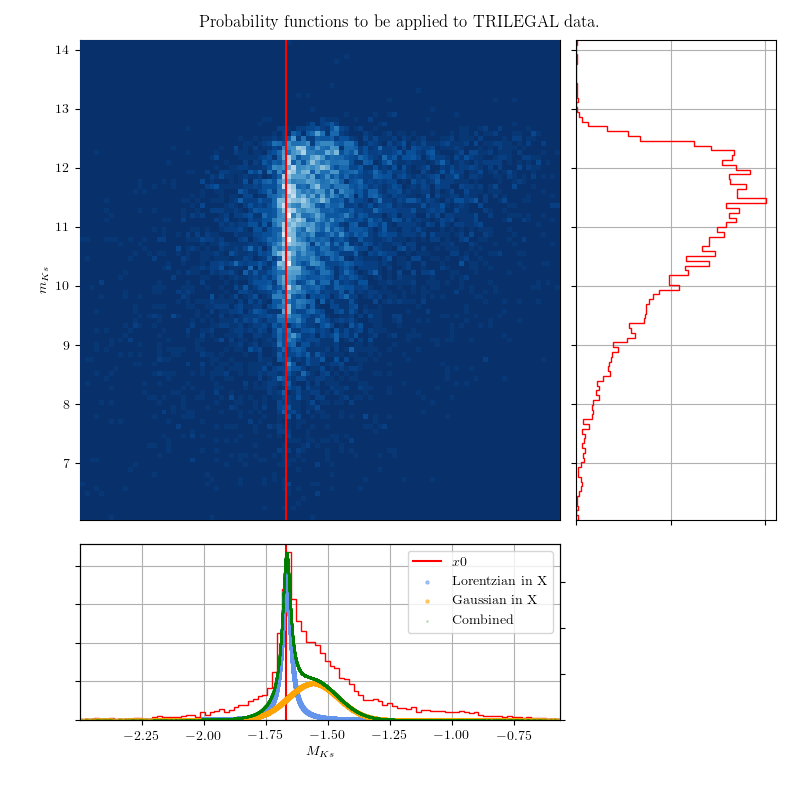
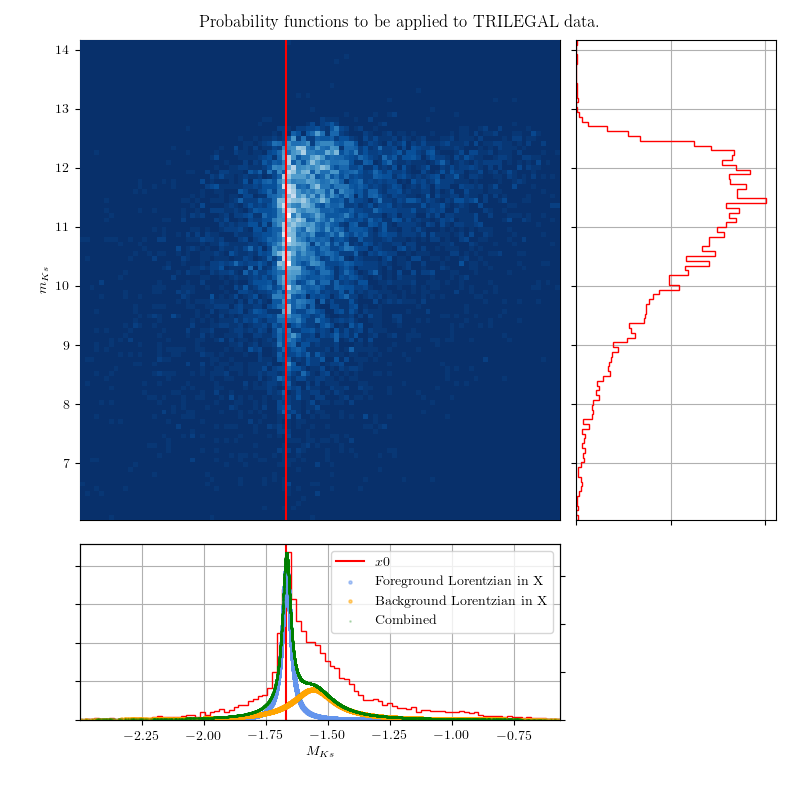
Double lorentzian fitting now appears to converge on a result with precision 88%, but a low recall.

diff --git a/2dmixmod.py b/2dmixmod.py
@@ -73,10 +73,10 @@ class cLikelihood:
 
     #Likelihood for the 'foreground'
     def lnlike_fg(self, p):
-        return self.Model.lorentzian_x(p)
+        return self.Model.lorentzian_fg(p)
 
     def lnlike_bg(self, p):
-        return self.Model.gauss_x(p)
+        return self.Model.lorentzian_bg(p)
 
     def lnprob(self, p):
         Q = p[-1]
@@ -131,8 +131,8 @@ def probability_plot(x, y, bins,x0, lor_x, gauss_x):
     yax.legend(loc='best')
 
     xax.hist(x,bins=bins,histtype='step',color='r',normed=True)
-    xax2.scatter(x,lor_x,s=5,c='cornflowerblue',alpha=.5,label='Lorentzian in X')
-    xax2.scatter(x,gauss_x,s=5,c='orange',alpha=.5,label='Gaussian in X')
+    xax2.scatter(x,lor_x,s=5,c='cornflowerblue',alpha=.5,label='Foreground Lorentzian in X')
+    xax2.scatter(x,gauss_x,s=5,c='orange',alpha=.5,label='Background Lorentzian in X')
     xax2.scatter(x,lor_x+gauss_x,s=1,c='green',alpha=.2,label='Combined')
     xax2.set_ylim(0.)
     xax.axvline(x0,c='r',label=r"$x0$")
@@ -159,8 +159,8 @@ def save_library(df, chain,labels_mc):
     results.loc[0], stddevs.loc[0] = r, s
 
     output = pd.concat([results,stddevs],axis=1)
-    output.to_csv('../Output/2dmix_results.csv')
-    df.to_csv('../Output/2dmix_selected_data.csv')
+    output.to_csv('Output/2dmix_results.csv')
+    df.to_csv('Output/2dmix_selected_data.csv')
 
     return results, stddevs
 
@@ -238,22 +238,22 @@ if __name__ == '__main__':
 
 ####---SETTING UP MCMC
     labels_mc = ["$x0$", r"$\gamma$",\
-                r"$\mu$", r"$\sigma$",\
+                "$x1$", r"$\mu$",\
                 "$Q$"]
     start_params = np.array([x0guess, 0.02,\
                             -1.56, 0.1,\
                             0.5])
-    bounds = [(-1.7,-1.6), (0.01,0.1),\
-                (-1.6,-1.5), (0.05, 0.15),\
+    bounds = [(-1.7,-1.6), (0.01,0.8),\
+                (-1.6,-1.5), (0.08, 0.2),\
                 (0, 1)]
 
 ####---CHECKING MODELS BEFORE RUN
     #Getting other probability functions
     ModeLLs = cLLModels.LLModels(x, y, labels_mc)
-    lor_x = np.exp(ModeLLs.lorentzian_x(start_params))
-    gauss_x = np.exp(ModeLLs.gauss_x(start_params))
+    lor_fg = np.exp(ModeLLs.lorentzian_fg(start_params))
+    lor_bg = np.exp(ModeLLs.lorentzian_bg(start_params))
 
-    fig = probability_plot(x, y, bins, x0guess, lor_x, gauss_x)
+    fig = probability_plot(x, y, bins, x0guess, lor_fg, lor_bg)
     fig.savefig('Output/visual_models.png')
     plt.show()
     plt.close('all')
@@ -261,6 +261,9 @@ if __name__ == '__main__':
 ####---RUNNING MCMC
     lnprior = cPrior.Prior(bounds)
     Like = cLikelihood(lnprior, ModeLLs)
+    if np.isinf(lnprior(start_params)):
+        print('Starting guesses out of bounds.')
+        sys.exit()
 
     ntemps, nwalkers = 4, 32
 
@@ -273,12 +276,7 @@ if __name__ == '__main__':
     plt.show()
     plt.close()
 
-    lnK, fg_pp = Fit.log_bayes()
-    mask = lnK > 1
-    Fit.dump()
-
-####---PLOTTING RESULTS
-    print('Plotting results...')
+    print('Plotting model results...')
     npa = chain.shape[1]
     res = np.zeros(npa)
     std = np.zeros(npa)
@@ -287,11 +285,18 @@ if __name__ == '__main__':
         std[idx] = np.std(chain[:,idx])
 
     #Calling probability functions with results
-    lor_x = np.exp(ModeLLs.lorentzian_x(res))
-    gauss_x = np.exp(ModeLLs.gauss_x(res))
+    lor_x = np.exp(ModeLLs.lorentzian_fg(res))
+    gauss_x = np.exp(ModeLLs.lorentzian_bg(res))
 
     fig = probability_plot(x, y, bins, res[0], lor_x, gauss_x)
     fig.savefig('Output/visual_result.png')
+
+    print('Calculating posteriors...')
+    lnK, fg_pp = Fit.log_bayes()
+    mask = lnK > 1
+    Fit.dump()
+
+####---PLOTTING RESULTS
 
     # Plot mixture model results
     fig, ax = plt.subplots()
@@ -310,14 +315,22 @@ if __name__ == '__main__':
     plt.close('all')
 
     sys.exit()
+
     #Plotting identified results
     fig, ax = plt.subplots()
-    ax.scatter(x[~mask][labels[~mask]==3], y[~mask][labels[~mask]==3], c=c[3], s=1,zorder=1000,label=label[3])
-    ax.scatter(x[~mask][labels[~mask]==4], y[~mask][labels[~mask]==4], c=c[4], s=1,zorder=1000,label=label[4])
+    ax.scatter(x[~mask], y[~mask], c=c[3], s=1,zorder=1000,label='Outliers (RGB)')
+    ax.scatter(x[mask], y[mask], c=c[4], s=1,zorder=1000,label='Inliers (RC)')
+    ax.legend(loc='best',fancybox=True)
+
+    cheb_correct = len(x[mask][labels[mask]==4])
+    cheb_total = len(x[labels==4])
+    identified_total = len(x[mask])
+    recall = float(cheb_correct)/float(cheb_total)
+    precision = float(cheb_correct)/float(identified_total)
 
     ax.set_xlabel(r"$M_{Ks}$")
     ax.set_ylabel(r"$m_{Ks}$")
-    ax.set_title(r"TRILEGAL simulated data with classified RC stars removed")
+    ax.set_title('Recall: '+str.format('{0:.2f}',recall) + '| Precision: '+str.format('{0:.2f}',precision))
     ax.legend(loc='best',fancybox=True)
     ax.grid()
     ax.set_axisbelow(True)
@@ -327,18 +340,11 @@ if __name__ == '__main__':
     plt.close('all')
 
 
-
 ####---SAVING STUFF INTO A PANDAS LIBRARY
     print('Saving output...')
     results, stddevs = save_library(df,chain,labels_mc)
 
-    plt.scatter(x,np.exp(lnlike_fg(results.loc[0].values)))
-    plt.savefig('../Output/fg_like.png')
-    plt.close()
-    plt.scatter(x, np.exp(lnlike_bg(results.loc[0].values)))
-    plt.savefig('../Output/bg_like.png')
-    plt.close()
-
+    sys.exit()
 #__________________GETTING CORRECTION____________________________
     print('Calculating corrections...')
     #Plot showing correction

diff --git a/cLLModels.py b/cLLModels.py
@@ -19,7 +19,32 @@ class LLModels:
         except: pass
         try: self.locx0 = np.where(np.array(_labels)=="$x0$")[0][0]
         except: pass
+        try: self.locx1 = np.where(np.array(_labels)=="$x1$")[0][0]
+        except: pass
 
+
+
+    def lorentzian_fg(self, p):
+        '''A simple lortenzian in x space'''
+        x0 = p[self.locx0]
+        gamma = p[self.locgamma]
+
+        #Calculating the likelihood in the X direction
+        lnLx = 2*np.log(gamma) - np.log(np.pi*gamma) - np.log((self.x-x0)**2 + gamma**2)
+        return lnLx
+
+    def lorentzian_bg(self, p):
+        '''A simple lortenzian in x space'''
+        x1 = p[self.locx1]
+        mu = p[self.locmu]
+
+        #Calculating the likelihood in the X direction
+        lnLx = 2*np.log(mu) - np.log(np.pi*mu) - np.log((self.x-x1)**2 + mu**2)
+        return lnLx
+
+
+
+####---ADDITIONAL MODELS FROM RGBb
     def gauss_x(self, p):
         '''A simple gaussian in x space'''
         mu = p[self.locmu]
@@ -29,17 +54,6 @@ class LLModels:
         lnLx = -0.5 * (((mu - self.x) / sig)**2 + 2*np.log(sig) +np.log(2*np.pi))
         return lnLx
 
-    def lorentzian_x(self, p):
-        '''A simple lortenzian in x space'''
-        x0 = p[self.locx0]
-        gamma = p[self.locgamma]
-
-        #Calculating the likelihood in the X direction
-        lnLx = 2*np.log(gamma) - np.log(np.pi*gamma) - np.log((self.x-x0)**2 + gamma**2)
-        return lnLx
-
-
-####---ADDITIONAL MODELS FROM RGBb
     def exp_x(self, p):
         '''A normalised rising exponential probability in x space'''
         lambd = p[self.loclambd]
